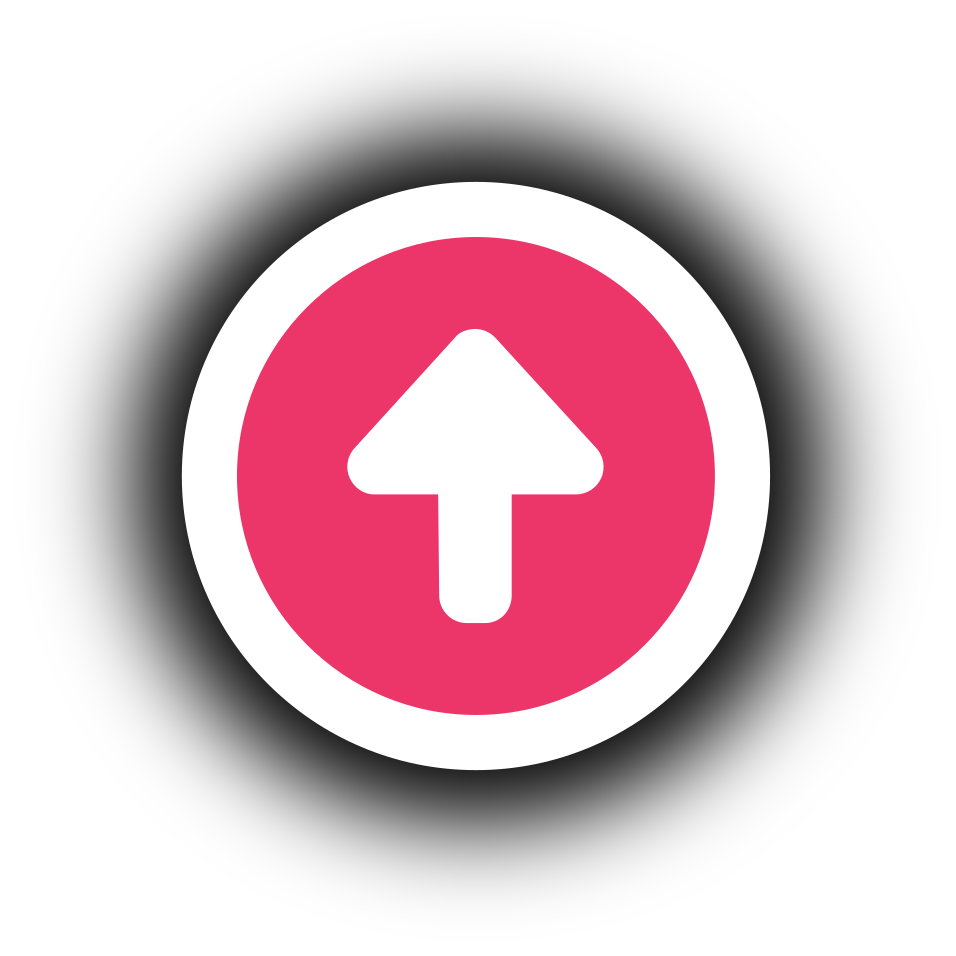
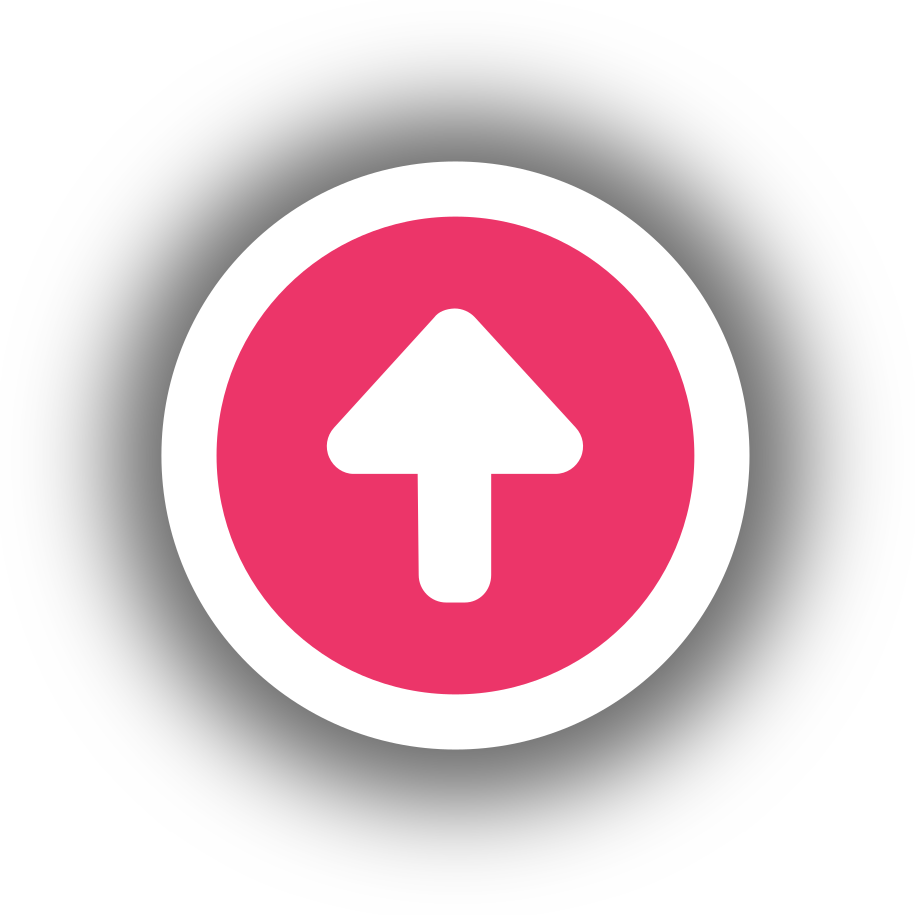
qml

diff --git a/ui/mkz.qml b/ui/mkz.qml
@@ -491,13 +491,13 @@ Mycroft.Delegate {
                 sourceItem: Image {
                     id: locationMarker
                     source: "../images/circle-ring-arrow.png"
-                    height: 100
+                    height: 80
                     fillMode: Image.PreserveAspectFit
                     opacity: 1.0
                     mipmap: true
                     transform: [
-                        Rotation { origin.x: 50; origin.y: 50; angle: carBearing-map.bearing },
-                        Rotation { origin.x: 50; origin.y: 50; axis.x: 1; axis.y: 0; axis.z: 0; angle: map.tilt }
+                        Rotation { origin.x: 40; origin.y: 40; angle: carBearing-map.bearing },
+                        Rotation { origin.x: 40; origin.y: 40; axis.x: 1; axis.y: 0; axis.z: 0; angle: map.tilt }
                     ]
                 }
                 coordinate: QtPositioning.coordinate(37.3964,-122.034)
